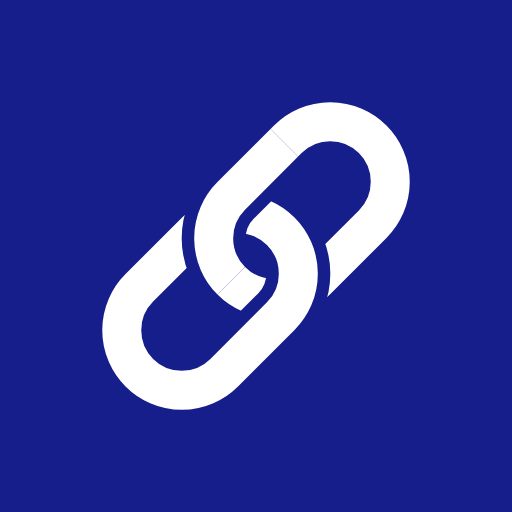
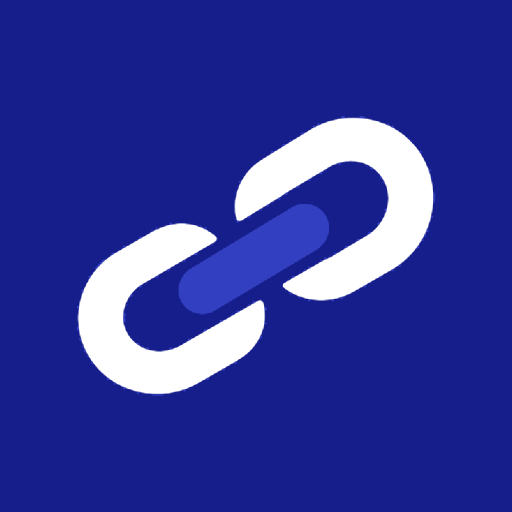
로고와 부제 업데이트

Changed region(s): [[0.125, 0.1875, 0.875, 0.8125]]

diff --git a/index.html b/index.html
@@ -1,5 +1,5 @@
 <!doctype html><html lang="ko"><head><meta charset="utf-8"><meta name="viewport" content="width=device-width,initial-scale=1"><title>기억의 고리 · Memory Rings</title><link rel="stylesheet" href="style.css"><link rel="icon" href="icon.png"></head>
-<body><header class="top"><div class="in"><img src="icon.png" alt=""><div><b>기억의 고리 · Memory Rings</b><span>단어를 잇고, 기억을 꿰다 · Link words. Keep memories.</span></div></div></header>
+<body><header class="top"><div class="in"><img src="icon.png" alt=""><div><b>기억의 고리 · Memory Rings</b><span>단어를 잇고, 기억을 꿰다. · Link words. Keep memories.</span></div></div></header>
 <main>
 <div class="card"><h1>기억의 고리</h1>
 <p>스쳐 지나가는 생각과 기억을 핵심 단어로 적고, 고리로 꿰어 한눈에 찾아보는 단어 연상 메모 앱이에요. 계정 없이, 인터넷 없이, 내 기기 안에서만 동작해요.</p>
